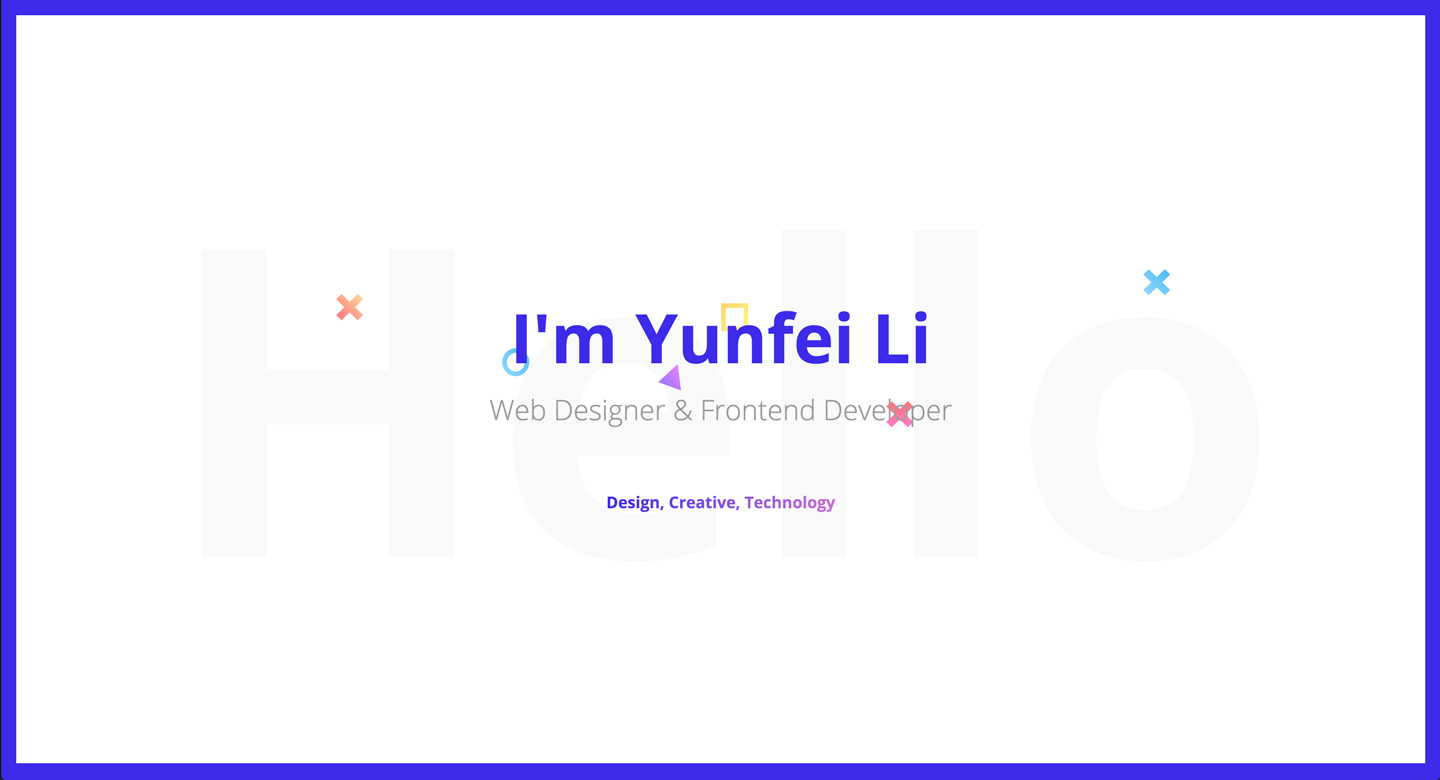
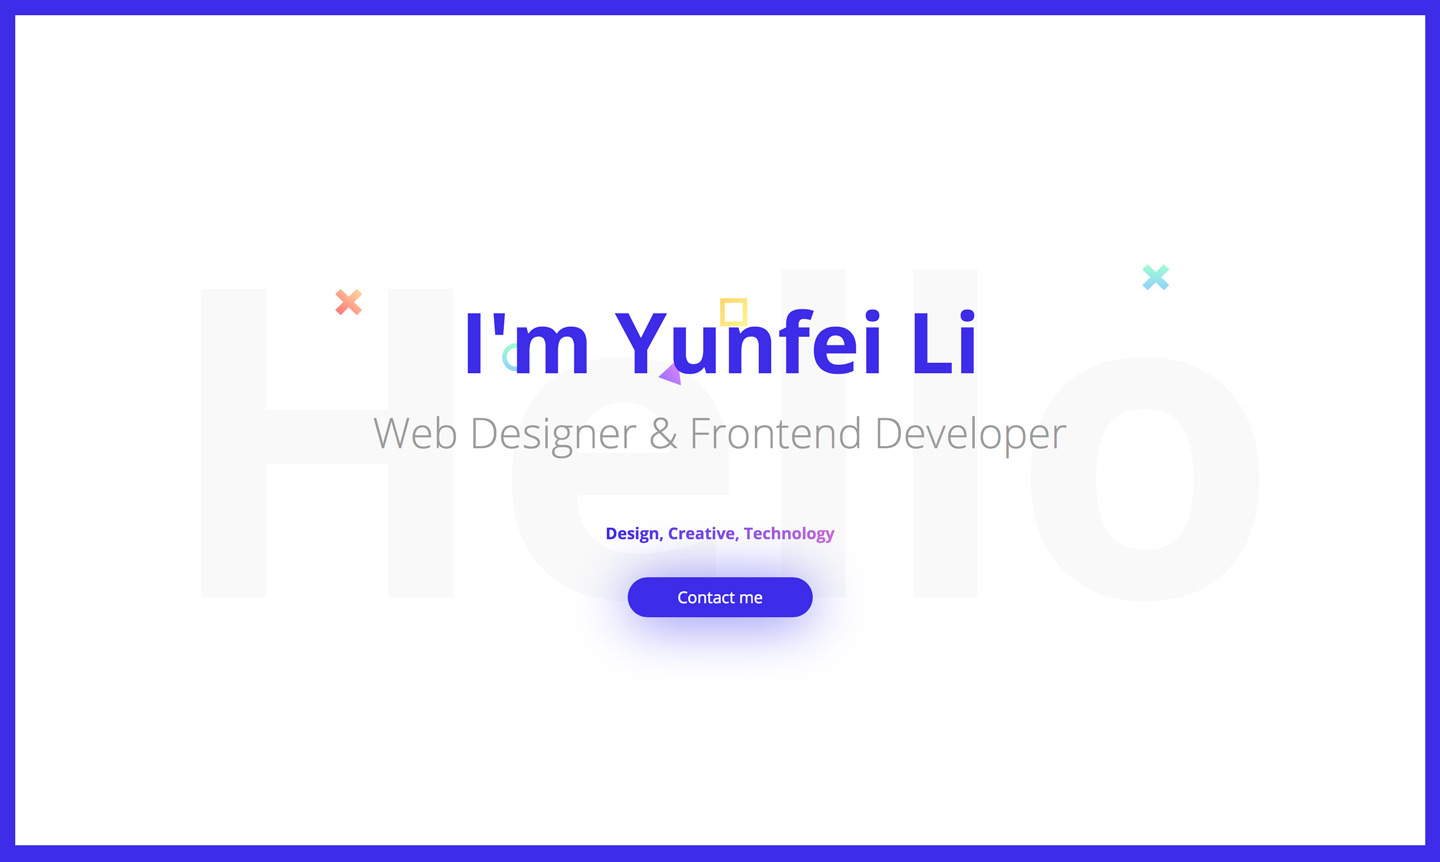
Add twitter card meta tag

diff --git a/src/index.html b/src/index.html
@@ -17,6 +17,16 @@
   <meta name="author" content="Yunfei Li">
   <meta name="keywords" content="Yunfei Li, Frontend developer, senior, Amsterdam, javascript, angular, nodejs">
   <meta name="description" content="Yunfei is a Senior Frontend Developer and he resident in Amsterdam, the Netherlands. He used to be a creative designer and focus on visual communication. Contact him at dylannnnlee@gmail.com"/>
+  <meta name="og:title" content="Yunfei is a Senior Frontend Developer and he resident in Amsterdam">
+  <meta name="og:image" content="https://www.yunfei.li/assets/img/home-preview.jpg">
+  <meta name="og:description" content="Yunfei is a Senior Frontend Developer and he resident in Amsterdam, the Netherlands. He used to be a creative designer and focus on visual communication. Contact him at dylannnnlee@gmail.com">
+  <meta name="og:url" content="https://www.yunfei.li">
+  <meta name="twitter:card" content="summary_large_image">
+  <meta name="twitter:site" content="@YunfeiLi_Dylan">
+  <meta name="twitter:title" content="Yunfei is a Senior Frontend Developer and he resident in Amsterdam">
+  <meta name="twitter:description" content="Yunfei is a Senior Frontend Developer and he resident in Amsterdam, the Netherlands. He used to be a creative designer and focus on visual communication. Contact him at dylannnnlee@gmail.com">
+  <meta name="twitter:image" content="https://www.yunfei.li/assets/img/home-preview.jpg">
+  <meta name="twitter:image:alt" content="Yunfei's portfolio website preview.">
   <link href="https://fonts.googleapis.com/css?family=Open+Sans:300,400,700" rel="stylesheet">
 </head>
 <body>

diff --git a/src/app/home/home.component.html b/src/app/home/home.component.html
@@ -27,21 +27,6 @@
                 </g>
               </svg>
             </span>
-            <span class="sparks sparks-plus pink">
-              <svg width="27px" height="26px" viewBox="0 0 27 26" version="1.1" xmlns="http://www.w3.org/2000/svg" xmlns:xlink="http://www.w3.org/1999/xlink">
-                <defs>
-                  <linearGradient x1="50%" y1="3.50885116%" x2="50%" y2="98.3902144%" id="linearGradient-pink">
-                    <stop stop-color="#FF7678" offset="0%"></stop>
-                    <stop stop-color="#FF7DC8" offset="100%"></stop>
-                  </linearGradient>
-                </defs>
-                <g id="cross-pink" stroke="none" stroke-width="1" fill="none" fill-rule="evenodd">
-                  <g id="cross-pink-gradient" transform="translate(-927.000000, -379.000000)" fill="url(#linearGradient-pink)">
-                    <polygon id="cross-pink-path" points="927 399.800028 935.099971 392.000419 927 384.200251 932.400319 379 940.5 386.800167 948.599826 379 954 384.200251 945.900319 392.000419 954 399.800028 948.599826 405 940.5 397.200391 932.400319 405"></polygon>
-                  </g>
-                </g>
-              </svg>
-            </span>
             <span class="sparks sparks-plus light-blue">
               <svg width="27px" height="26px" viewBox="0 0 27 26" version="1.1" xmlns="http://www.w3.org/2000/svg" xmlns:xlink="http://www.w3.org/1999/xlink">
                 <defs>

diff --git a/src/app/app.component.ts b/src/app/app.component.ts
@@ -10,25 +10,7 @@ import * as firebase from 'firebase/app';
   styleUrls: ['./app.component.scss']
 })
 export class AppComponent implements OnInit {
-  constructor(private meta: Meta) {
-    this.meta.addTag({
-      name: 'og:title',
-      content: 'Yunfei is a Senior Frontend Developer and he resident in Amsterdam'
-    });
-    this.meta.addTag({
-      name: 'og:image',
-      content: 'https://www.yunfei.li/assets/img/home-preview.jpg'
-    });
-    this.meta.addTag({
-      name: 'og:description',
-      // tslint:disable-next-line:max-line-length
-      content: `Yunfei is a Senior Frontend Developer and he resident in Amsterdam, the Netherlands. He used to be a creative designer and focus on visual communication. Contact him at dylannnnlee@gmail.com`
-    });
-    this.meta.addTag({
-      name: 'og:url',
-      content: 'https://www.yunfei.li'
-    });
-  }
+  constructor(private meta: Meta) {}
 
   ngOnInit() {
     firebase.initializeApp(environment.firebaseConfig);

diff --git a/src/app/home/home.component.scss b/src/app/home/home.component.scss
@@ -103,10 +103,6 @@
             top: 45px;
             left: 20%;
         }
-        &.pink {
-            bottom: 60px;
-            right: 35%;
-        }
         &.light-blue {
             top: 20px;
             right: 15%;
